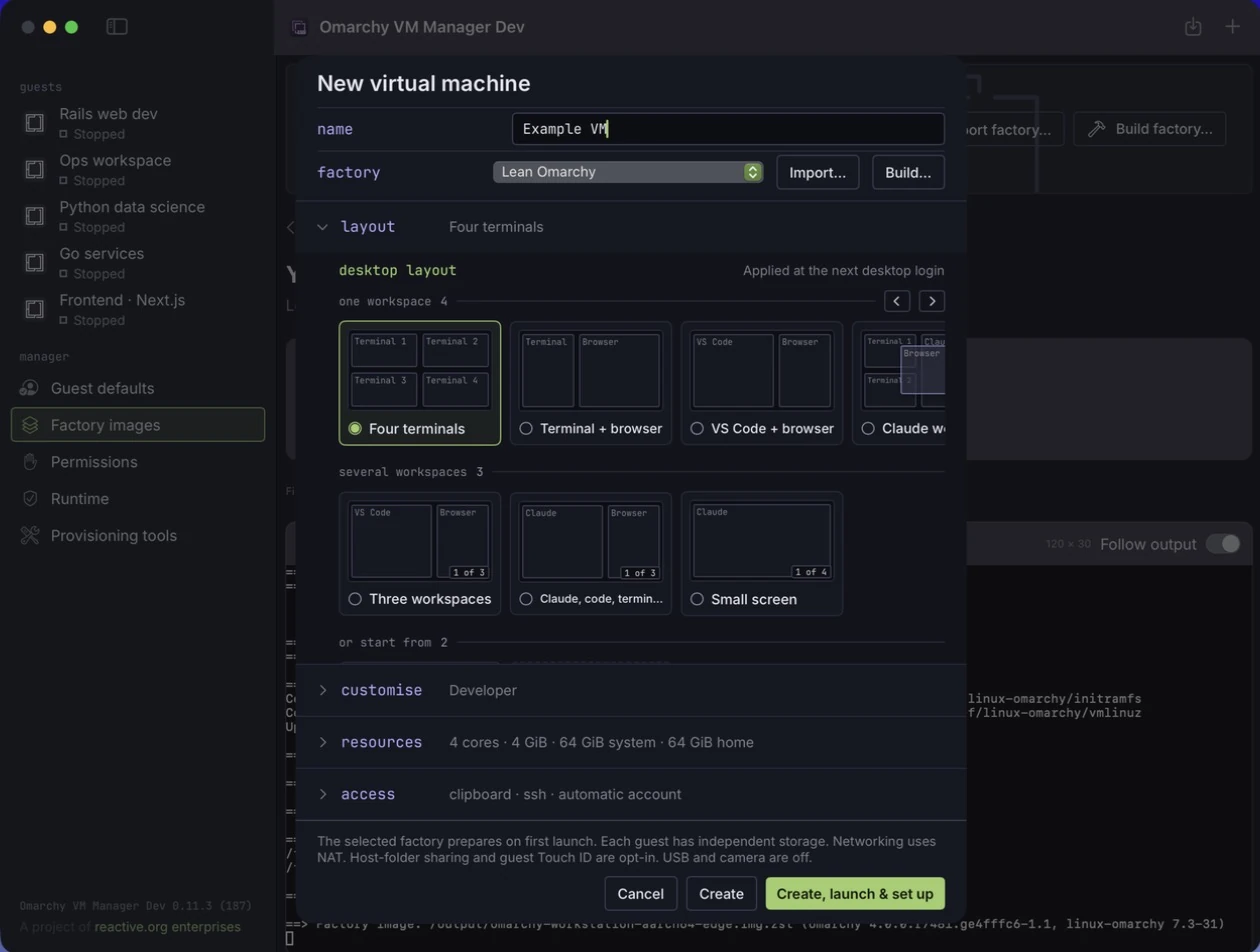
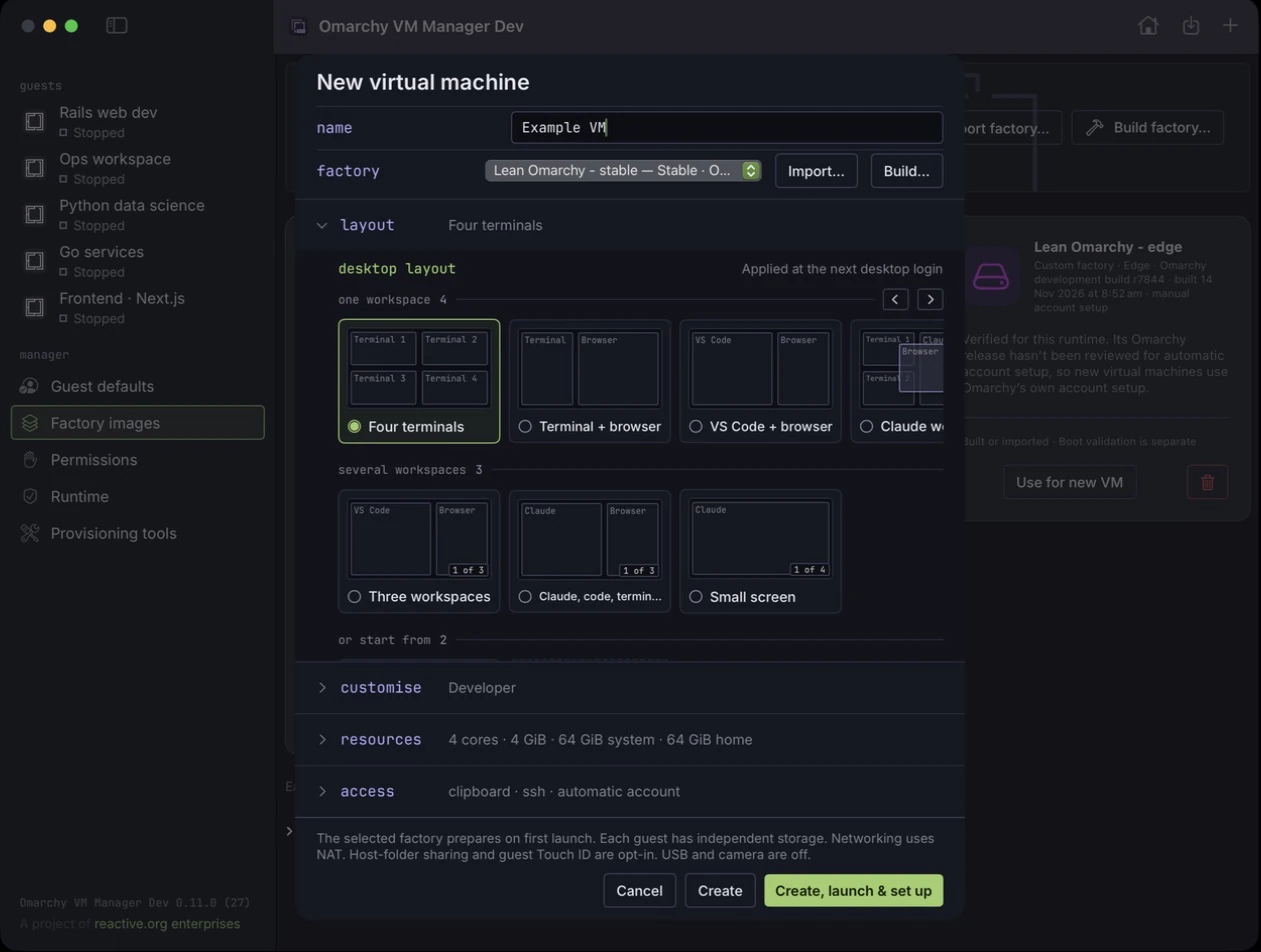
Refresh the user-guide screenshots for 0.11.3
Recapture 21 of the 23 user-guide screenshots from a local Dev build of
next 9991a69 plus the title-bar fix (#45), so they show the new title bar
(app name, Home, Import factory and New VM) and the edge factory labels.

The Example VM walkthrough was rerun on the Lean Omarchy - stable factory
(Omarchy 4.5.0) and reached Succeeded; the user answered the sudo prompt
after capture, and Example VM was then shut down and moved to Trash. The
build and import sheets are unchanged and were kept.

Guide alt text and wording now match the UI: factory labels, the new
manual-account-setup paragraph, the sudo password step, the Installing
and desktop images, and the toolbar buttons. The manifest, media README
and a new Validation entry record the capture, crops and limits.

diff --git a/docs/media/README.md b/docs/media/README.md
@@ -2,19 +2,19 @@
 
 [User guide](../README.md) · [Demo video](https://www.reactive.org/omarchy-vm)
 
-The screenshots are actual window captures of the Dev build, Omarchy VM Manager Dev **0.11.3 (187)**, on macOS, captured through Computer Use on **8 November 2026, Australia/Melbourne**. The window title, library header and sidebar footer therefore show Dev branding. All five existing Dev guests (Rails web dev, Ops workspace, Python data science, Go services and Frontend · Next.js) remained stopped and unchanged. The configuration and factory import forms were cancelled; no bundle was chosen or imported. Saved defaults and existing guest settings were preserved.
+The screenshots are actual window captures of a local Dev build, Omarchy VM Manager Dev **0.11.0 (27)**, made from `next` at `9991a69` with the title-bar fix from #45. They were captured through Computer Use on **14 November 2026, Australia/Melbourne**. Local builds aren't stamped with a release version, so the sidebar footer reads 0.11.0 (27). The window title, library header and sidebar footer show Dev branding. The title bar shows the app name beside its icon, followed by the Home, Import factory and New VM buttons. All five existing Dev guests (Rails web dev, Ops workspace, Python data science, Go services and Frontend · Next.js) remained stopped and unchanged. The configuration form was cancelled. Saved defaults and existing guest settings were preserved.
 
-The ten `example-vm-*` images follow a real guest through the New VM flow for [Getting started](../getting-started.md). With the user's approval, **Example VM** was created with the Lean Omarchy custom factory, the Four terminals layout and the Developer setup profile, using the default resources and access settings. It was then launched through first run to **Ready**. The user answered Omarchy's passwordless sudo prompt. The guest desktop was captured from the guest's own window after the user dismissed two of its four welcome notifications. Example VM was then shut down; its guest process was confirmed exited and the VM was kept. An earlier attempt on the official image failed during setup, because updating Omarchy fails there; the user deleted that VM. Its **Needs you** capture (`example-vm-07-needs-you.webp`) is reused, because that screen shows no factory and is otherwise identical to the second run.
+The ten `example-vm-*` images follow a real guest through the New VM flow for [Getting started](../getting-started.md). With the user's approval, **Example VM** was created from the **Lean Omarchy - stable** custom factory (Omarchy 4.5.0), with the Four terminals layout, the Developer setup profile and the default resources, access and 60-minute sudo settings. It was launched through first run to **Ready**. The user answered Omarchy's passwordless sudo prompt after it was captured. The 4.5.0 factory needed almost no updates, so the Installing image shows the setup playbook's recap rather than package downloads. The guest desktop was captured from the guest's own window after the user dismissed three of its four welcome notifications. Example VM was then shut down: it showed **Stopped** and its guest process was confirmed exited. At the user's request it was moved to the Mac Trash through the app's confirmed delete.
 
-The two Factory images screenshots (`factory-library.webp` and `factory-build.webp`) were added later the same day from the factory-channels branch build, Omarchy VM Manager Dev **0.11.0 (27)**, so its sidebar footer shows that version. The library shows the official card and two lean factories the user built (Stable with Omarchy 4.5.0, used by the guest **stable**, and Edge); all six Dev guests were stopped. The **Build lean factory** sheet was opened with Stable selected, captured after its read-only Docker readiness check, and cancelled; no build started. Its image-name field shows the focus and selection it has when the sheet opens.
+The Factory images library shows the official card, **Lean Omarchy - stable** (used by Example VM at capture) and **Lean Omarchy - edge**, an Omarchy development build marked manual account setup. The **Build lean factory** sheet (`factory-build.webp`) and the **Import factory** form (`import-factory.webp`) were not retaken: their contents are unchanged. They come from Dev 0.11.0 (27) on 8 November and 0.11.3 (187) respectively, as recorded in the manifest.
 
 The guides link to the [demo video](https://www.reactive.org/omarchy-vm) on reactive.org. The earlier 48-second MP4 slideshow and its WebVTT captions were removed on 8 November 2026.
 
 ## Size and format
 
-The 23 WebP screenshots total **1,177,250 bytes** (about 1.2 MB), below the 2 MB budget. Full-window screenshots are 1,260 × 952 at the capture's native width; the configuration and import form screenshots are scaled to their earlier widths, the build sheet is scaled from 1,058 to 900 wide after trimming slivers of the window behind it, and the guest desktop is scaled from 1,344 × 788 to 1,260 wide. Metadata is removed.
+The 23 WebP screenshots total **1,190,234 bytes** (about 1.2 MB), below the 2 MB budget. Full-window screenshots are 1,261 × 952 at the capture's native width. The configuration form is cropped to the sheet and scaled to its earlier 1,040 width, and the guest desktop is scaled from 1,344 × 788 to 1,260 wide. The build and import sheets are unchanged. Metadata is removed.
 
-[`manifest.json`](manifest.json) records dimensions, hashes, exact byte counts and privacy crops. The original JPEG captures stay in the ignored `.build/user-doc-captures-2026-11-08/` folder. The SSH image is cropped before the personal public-key fingerprint row; that section is omitted, not redrawn. The configuration image keeps its access section closed, so the generated guest hostname never appears. In the New VM access image, the selected public key's fingerprint sits below the visible area. The guest desktop's terminal prompts show no username or hostname. Small areas of desktop show at the rounded window corners. Passwords, personal contact details, public-key fingerprints and private keys are absent from the shipped media. Other processing consists of cropping, resizing and compression.
+[`manifest.json`](manifest.json) records dimensions, hashes, exact byte counts and privacy crops. The original JPEG captures stay in the ignored `.build/user-doc-captures-2026-11-14/` folder. The SSH image is cropped before the personal public-key fingerprint row; that section is omitted, not redrawn. The configuration image keeps its access section closed, so the generated guest hostname never appears. In the New VM access image, the selected public key's fingerprint sits below the visible area. The Needs you image shows the default account name `omarchy` in sudo's password prompt and nothing typed. The guest desktop's terminal prompts show no username or hostname. Small areas of desktop show at the rounded window corners. Passwords, personal contact details, public-key fingerprints and private keys are absent from the shipped media. Other processing consists of cropping, resizing and compression.
 
 ## Update the media
 

diff --git a/docs/getting-started.md b/docs/getting-started.md
@@ -33,9 +33,11 @@ For different owner settings on just one VM, the CLI supports [per-VM owner over
 
 A factory is the disk image a new guest starts from. Open **Factory images** in the sidebar to see your library: the official Try Omarchy image, and any lean or custom factories you've built or imported. Each custom card shows its Omarchy channel, version and build time, so factories with the same name are easy to tell apart.
 
-![The Factory images library with the official Try Omarchy card and two lean factories, one Stable with Omarchy 4.5.0 and used by a VM, one Edge](media/factory-library.webp)
+![The Factory images library with the official Try Omarchy card, a Stable lean factory with Omarchy 4.5.0 used by Example VM, and an Edge lean factory on a development build marked manual account setup](media/factory-library.webp)
 
 The trash button on a custom card moves that factory to the Trash, so you can restore it. A factory a VM still uses can't be removed; its card says which VM uses it.
+
+Edge factories show **Omarchy development build** and a number instead of a release version. A card marked **manual account setup** carries an Omarchy release that hasn't been reviewed for automatic account setup: guests from it skip Guest defaults and use Omarchy's own first-run account form.
 
 Developer setup updates Omarchy before installing your selections, and that update currently fails on the official image. For a guest with developer setup, use a lean factory: build one with **Build factory…** (see [Build a lean factory in Dev](FactoryBuilding.md)) or import a prepared one with **Import factory…** (see [Prepare a factory image](preparing-factory-images.md)). When a factory is ready, **Use for new VM** opens the New VM form with that factory selected.
 
@@ -43,7 +45,7 @@ Developer setup updates Omarchy before installing your selections, and that upda
 
 Click **+** in the toolbar, press **Command+N**, or use **Use for new VM** on a factory. Type **Example VM** as the name and check the **factory** row. Its menu lists each factory with its channel, Omarchy version and build time. **Import…** and **Build…** beside it add a factory without leaving the form.
 
-![The New virtual machine form named Example VM, with the Lean Omarchy factory selected and its four sections closed](media/example-vm-01-new-vm.webp)
+![The New virtual machine form named Example VM, with the Lean Omarchy - stable factory selected and its four sections closed](media/example-vm-01-new-vm.webp)
 
 The rest of the form is grouped into four sections. Click one to open it; only one is open at a time, and each closed section shows a one-line summary.
 
@@ -59,7 +61,7 @@ Other examples include **Terminal + browser**, **VS Code + browser** and layouts
 
 **customise** holds developer setup. **Source** is **None**, **Bundled configuration** or **Local setup folder**. With bundled configuration, combine profiles to build your workstation: **Developer** (command-line, Git and editor tools) is the base, and **Web**, **Python** and **Project managed** each add to it. Shared features are installed once. For Example VM, keep **Developer** on its own.
 
-![The customise section open, with Bundled configuration and the Developer profile selected](media/example-vm-03-customise.webp)
+![The customise section open, with the Developer profile selected and Ask for sudo once off](media/example-vm-03-customise.webp)
 
 ### resources
 
@@ -99,11 +101,11 @@ With the official image, the first launch also downloads and verifies the factor
 
 ### When setup needs you
 
-During **Installing**, Omarchy asks whether to enable passwordless sudo, which setup needs. The guest shows **Needs you** in the sidebar, and the **Live terminal** on its Home page shows the prompt. Answer it there: choose **Yes** or **No**, then press Return.
+During **Installing**, Omarchy asks whether to enable passwordless sudo, which setup needs. The guest shows **Needs you** in the sidebar, and the **Live terminal** on its Home page shows the prompt. Answer it there: choose **Yes** or **No** and press Return. After **Yes**, sudo asks for the guest account's password.
 
 Omarchy's prompt warns about the risk in its own words. By default setup asks for 60 minutes, renews it while it runs, and turns it off when it finishes. With **Ask for sudo once** (in the setup options, and in **Guest defaults**), Omarchy asks once and calls it permanent; setup still turns it off when it finishes.
 
-![Example VM waiting at Installing, with Omarchy's passwordless sudo prompt in the live terminal and Needs you in the sidebar](media/example-vm-07-needs-you.webp)
+![Example VM waiting at Installing, with Omarchy's 60-minute passwordless sudo warning and password prompt in the live terminal and Needs you in the sidebar](media/example-vm-07-needs-you.webp)
 
 While a run is blocked, the Dock icon bounces once if the manager isn't in front, and macOS shows one notification naming the guest and what it's waiting for. The Dock icon may also show **!** if macOS allows badges for the app. The manager asks for notification permission when it opens; the badge and Dock still work if you decline. If a step runs out of time, the failure names it, for example "Omarchy's passwordless sudo prompt wasn't answered within an hour".
 
@@ -111,7 +113,7 @@ While a run is blocked, the Dock icon bounces once if the manager isn't in front
 
 Setup then updates Omarchy and installs your selections. **Follow output** keeps the live terminal scrolled to the latest line, and **View output** opens the full log. Setup restarts the guest once, then checks the configuration.
 
-![Example VM at Installing, with package downloads in the live terminal](media/example-vm-08-installing.webp)
+![Example VM at Installing, with the setup playbook's tasks and recap in the live terminal](media/example-vm-08-installing.webp)
 
 ### Ready
 
@@ -121,7 +123,7 @@ When the tracker finishes, the Home page shows **Setup complete**. The **setup**
 
 The guest window shows the four-terminal layout. Omarchy's welcome notifications appear at the top right until you dismiss them.
 
-![Example VM's guest desktop with four terminals and two Omarchy welcome notifications](media/example-vm-10-desktop.webp)
+![Example VM's guest desktop with four terminals and one Omarchy welcome notification](media/example-vm-10-desktop.webp)
 
 ## Connect from your Mac
 

diff --git a/docs/Validation.md b/docs/Validation.md
@@ -556,3 +556,27 @@ An earlier attempt on the official Try Omarchy image downloaded and verified the
 - The probe used only a private folder, which it removed.
 
 **VERIFIED — end-to-end, Dev build of this branch:** the user's **Back up home…** on the same guest showed Verified. The host folder (mode 0700) holds only `home.tgz` (mode 0600, one link), and `gzip -t` and `tar -tzf` pass on it.
+
+## User documentation media refresh for 0.11.3 — 14 November 2026
+
+With the user's approval to drive only the Dev manager window (`dev.omarchy.vm-manager.dev`), recaptured 21 of the 23 user-guide screenshots through Computer Use. The build was a local Dev build of `next` at `9991a69` plus the title-bar fix from #45, reporting **0.11.0 (27)**. #44 had changed the title bar and the factory version labels, so every full-window image was retaken from that build. The five existing Dev guests were stopped before and after capture. The Configure form was opened and cancelled. The Build lean factory and Import factory sheets were not retaken, because their contents are unchanged. No saved defaults, permissions or other guests were changed, and the Stable app and its guests were not touched.
+
+With the user's explicit approval, a new **Example VM** was created from the **Lean Omarchy - stable** custom factory (Omarchy 4.5.0), with the Four terminals layout, the Developer profile and the default resources, access and 60-minute sudo settings. It was launched through first run. The user answered Omarchy's sudo prompt and its password request after the **Needs you** capture, and dismissed three of the four welcome notifications before the desktop capture. Example VM was then shut down from the manager: it showed **Stopped** and its guest window process was confirmed exited. At the user's request it was moved to the Mac Trash through the app's confirmed delete.
+
+An earlier attempt on 12 November used the 8 November Lean Omarchy - edge factory and failed. The install play finished with `failed=0` and reported `restartRequired`. The configuration check then started without a guest restart and ended `[setup failed]` with result `childFailed`. That VM was later deleted by the user, and none of its captures are published.
+
+**VERIFIED — real Dev window and guest:**
+- First run on the Stable 4.5.0 lean factory progressed through Created, Starting, First boot, Connecting, Installing, Restart and Ready.
+- The sidebar showed **Needs you** at Omarchy's 60-minute sudo prompt.
+- The guest restarted before its configuration check, and the setup card reports Developer, Four terminals and **Succeeded**.
+- The title bar shows the Home, Import factory and New VM buttons at the trailing edge.
+- Edge factories read "Omarchy development build r7844" and "manual account setup".
+- Every raw capture and converted WebP was reviewed for credentials, key fingerprints, hostnames, personal identifiers, stray windows and the intended screen.
+- The SSH image is cropped above the personal key fingerprint. The configuration image is cropped to its sheet.
+- `manifest.json` dimensions, byte counts, hashes and crops match the files. The 23 screenshots total 1,190,234 bytes, below the 2 MB budget.
+- Guide alt text and wording that no longer matched the UI were updated: factory labels, the sudo password step, the Installing and desktop images, and the toolbar buttons.
+
+**TO PROVE:**
+- Whether the 12 November restart and check failure is specific to the edge factory or to that older build.
+- Setup on a manual-account-setup factory.
+- The edge factory's layout on a real guest.

diff --git a/docs/FactoryBuilding.md b/docs/FactoryBuilding.md
@@ -27,7 +27,7 @@ first native flow.
 
 ## Removing factories and old builds
 
-![The Factory images library: the official card, a Stable lean factory used by a VM with its trash button unavailable, and an Edge lean factory that can be moved to Trash](media/factory-library.webp)
+![The Factory images library: the official card, a Stable lean factory used by Example VM with its trash button unavailable, and an Edge lean factory on a development build, marked manual account setup, that can be moved to Trash](media/factory-library.webp)
 
 On **Factory images**, each custom factory card has a trash button. **Move to
 Trash** moves the factory and its import record to the macOS Trash together, so

diff --git a/docs/README.md b/docs/README.md
@@ -2,7 +2,7 @@
 
 Create independent Omarchy guests, configure their resources, and connect from your Mac over SSH. This guide describes the current private macOS build. Its screenshots show the Dev build **0.11.3 (187)**.
 
-![The manager library with five stopped guests and the Import factory and New VM toolbar buttons](media/library.webp)
+![The manager library with five stopped guests and the Home, Import factory and New VM toolbar buttons](media/library.webp)
 
 ## Start here
 
